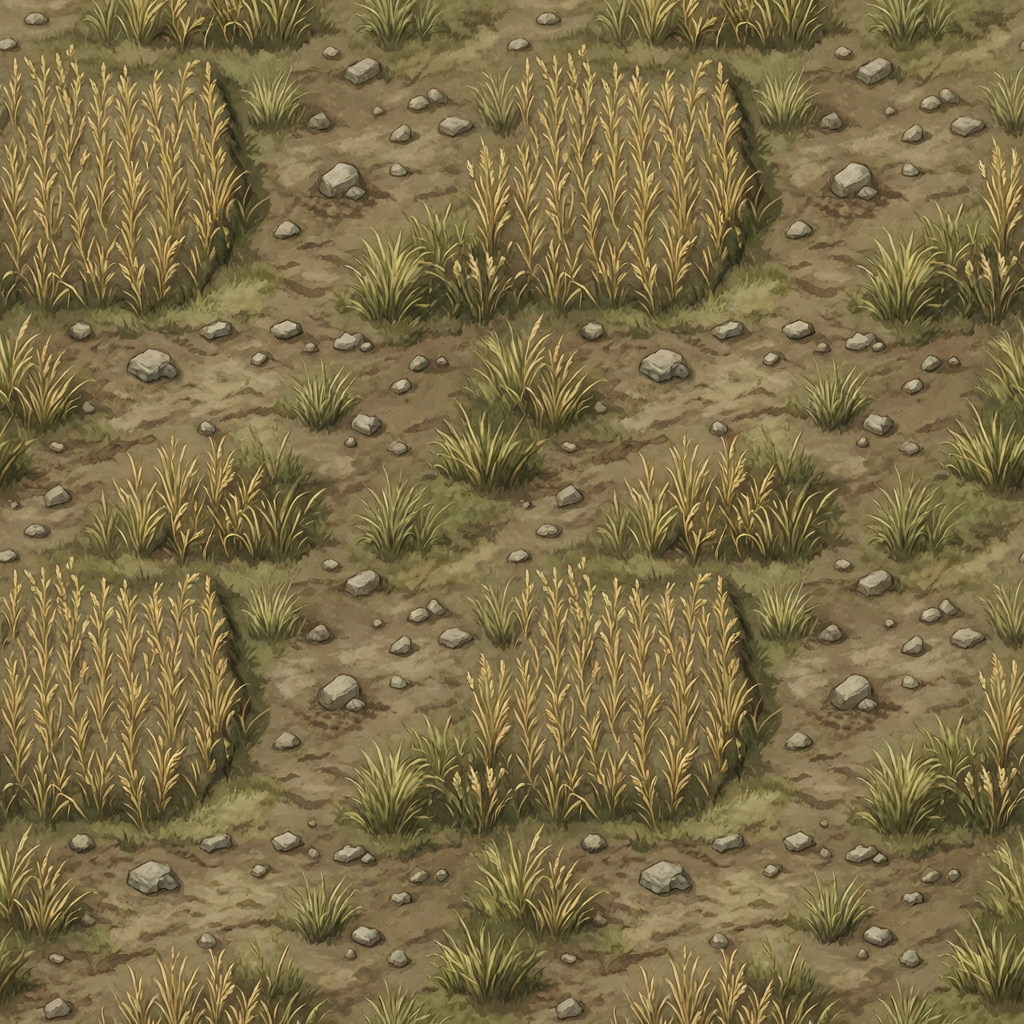
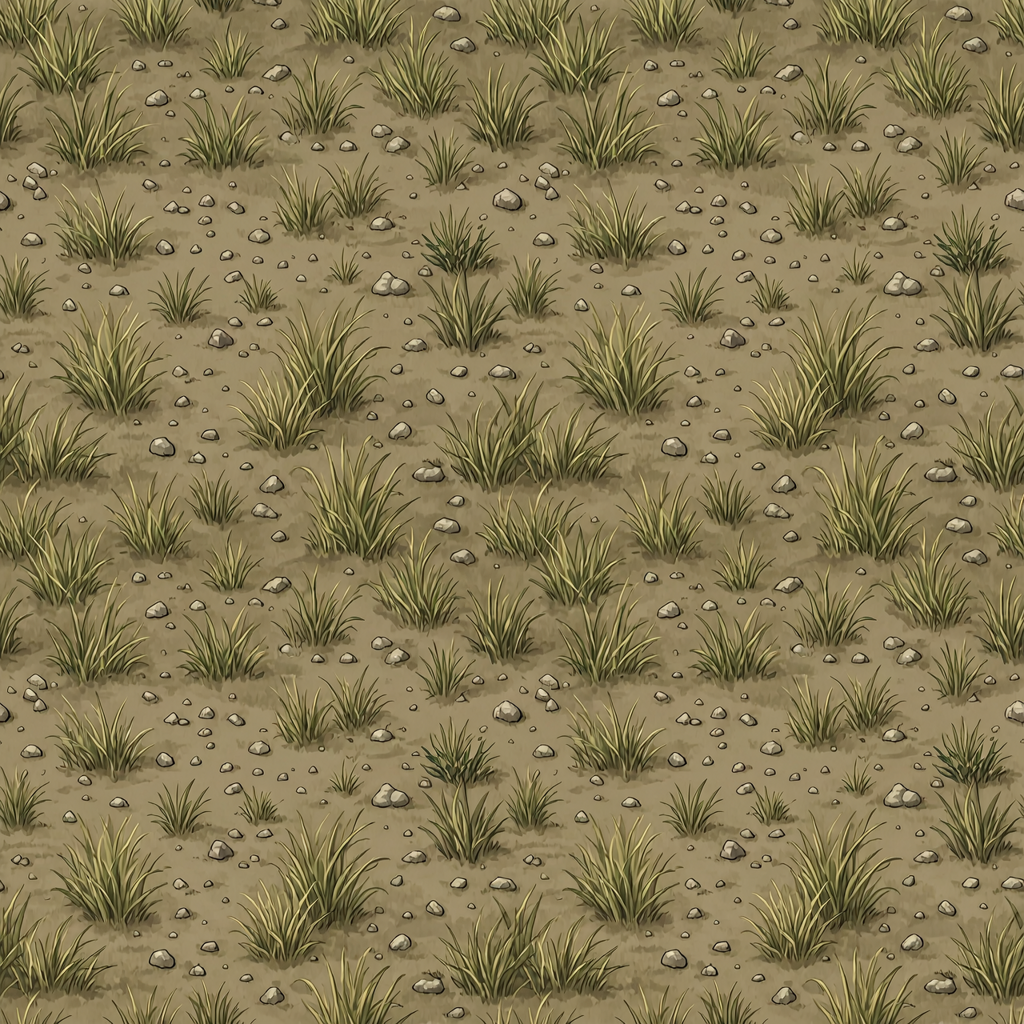
art: 地貌贴图重生为无方向/无行列的有机随机版(wan2.7-image)——消除平原'谷物行'式可见平铺重复(违和大头之一)

diff --git a/scripts/gen_terrain_art.py b/scripts/gen_terrain_art.py
@@ -23,13 +23,16 @@ TERRAIN_STYLE = (
     "EVEN flat overhead lighting with NO strong directional cast shadows (so the tile repeats cleanly), "
     "organic natural irregular variation across the whole frame, no single focal point, "
     "fills the entire square edge to edge, ultra-detailed 8k, ArtStation. "
+    "CRITICAL — must tile SEAMLESSLY with NO visible repeating pattern: completely random organic scatter, "
+    "NO rows, NO furrows, NO stripes, NO lines, NO grid, NO directional structure, NO regular spacing, "
+    "NO obvious motif that would look repetitive when tiled; uniform random density edge to edge. "
     "ABSOLUTELY NOT: anime, cartoon, cel shading, flat vector, saturated colors, isometric angle, "
-    "perspective view, any building, any path, any grid lines, text, watermark, border, vignette, frame."
+    "perspective view, any building, any path, any grid lines, planted crop rows, text, watermark, border, vignette, frame."
 )
 
 TERRAINS: list[tuple[str, str]] = [
-    ("plain", "Lush but earthy temperate grassland meadow with patches of cultivated millet field furrows and bare tilled soil, scattered wild grass tufts, small stones, dry and green mixed."),
-    ("hills", "Dry rolling loess hill ground, ochre and tan packed earth with sparse dry yellow grass, subtle undulating contours, eroded soil, a few scattered rocks."),
+    ("plain", "Earthy temperate wild grassland ground: mixed green and dry-tan wild grass over bare brown soil, randomly scattered small pebbles and a few weed clumps, completely irregular natural meadow with NO crop rows and NO furrows."),
+    ("hills", "Dry rolling loess hill ground, ochre and tan packed earth with randomly sparse dry yellow grass and scattered small rocks, eroded soil, completely irregular, no rows or lines."),
     ("forest", "Shaded forest floor ground under a tree canopy: dark rich brown leaf-litter soil with fallen leaves and twigs, patches of moss and undergrowth fern, a few tree roots and small stones, dappled shade. NO tree tops, NO canopy from above — just the forest GROUND (trees are placed separately as sprites)."),
     ("river", "Calm shallow river and stream water surface seen from above, gentle ripples and eddies, muddy green-brown water with subtle reflections, a few wet pebbles and reed patches at the edges."),
     ("mountain", "Bare rugged grey mountain rock ground from above, weathered fractured stone, cracks and scree, patches of moss and a little sparse alpine grass in crevices, cold grey and slate tones."),
